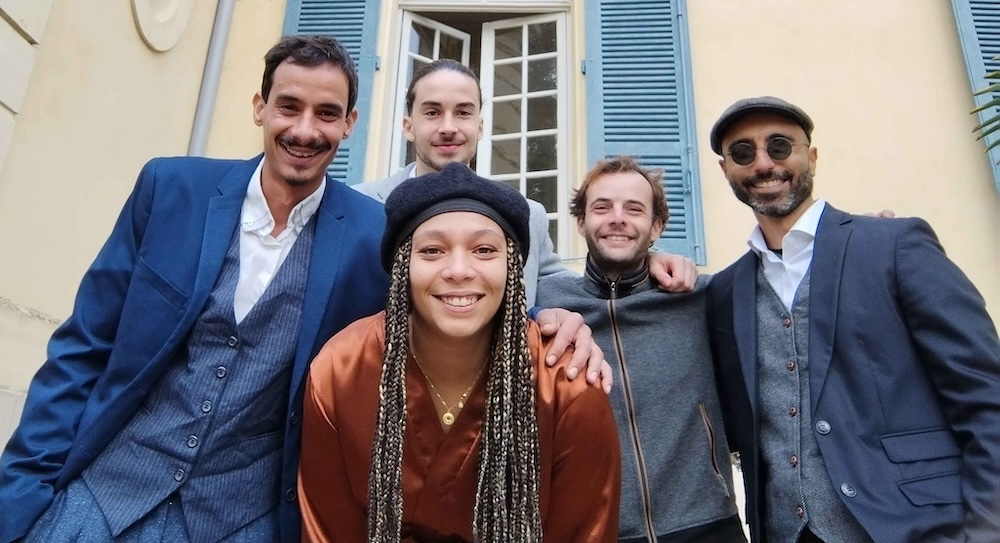
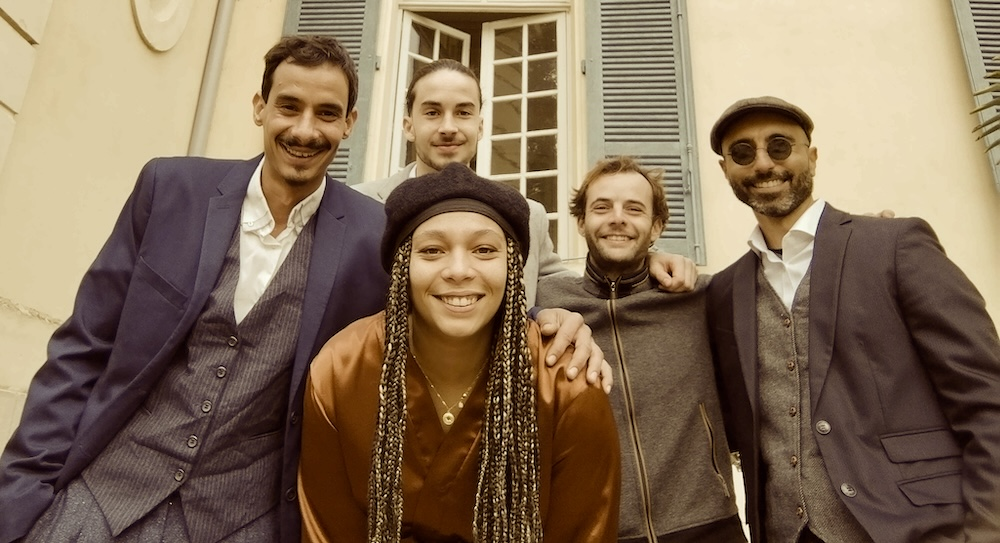
schem

diff --git a/en/index.html b/en/index.html
@@ -9,8 +9,14 @@
     {
       "@context": "https://schema.org",
       "@type": "MusicGroup",
+      "@id": "https://musicbrainz.org/artist/423d6a4e-0c22-48b4-97a7-32003eabf063",
       "name": "Hydromiel",
       "url": "https://hydromiel-musique.fr",
+      "foundingLocation": {
+          "@type": "City",
+          "name": "Lyon"
+      },
+      "foundingDate": "2025",
       "logo": "/pictures/favicon.png",
       "description": "Groupe de musique Hydromiel",
       "genre": "Soul, Funk, Reggae, Groove, Jazz, Neo-Soul, Disco, Pop",
@@ -41,7 +47,64 @@
             "name": "Breathe"
           }
       ],
+      "member": [
+        {
+          "@type": "OrganizationRole",
+          "member": {
+            "@type": "Person",
+            "name": "Mel"
+          },
+          "startDate": "2025",
+          "roleName": ["lead vocals"]
+        },
+        {
+          "@type": "OrganizationRole",
+          "member": {
+            "@type": "Person",
+            "name": "Emilio"
+          },
+          "startDate": "2025",
+          "roleName": ["guitar"]
+        },
+        {
+          "@type": "OrganizationRole",
+          "member": {
+            "@type": "Person",
+            "name": "Elian"
+          },
+          "startDate": "2025",
+          "roleName": ["bass guitar"]
+        },
+        {
+          "@type": "OrganizationRole",
+          "member": {
+            "@type": "Person",
+            "name": "Camille"
+          },
+          "startDate": "2025",
+          "roleName": "keyboard"
+        },
+        {
+          "@type": "OrganizationRole",
+          "member": {
+            "@type": "Person",
+            "name": "Zakk"
+          },
+          "startDate": "2025",
+          "roleName": "drums"
+        },
+        {
+          "@type": "OrganizationRole",
+          "member": {
+            "@type": "Person",
+            "name": "Alex"
+          },
+          "startDate": "2026",
+          "roleName": "saxophone"
+        }
+      ],
       "sameAs": [
+        "https://hydromiel-musique.fr",
         "https://www.facebook.com/people/Hydromielmusique/61581949483668/",
         "https://www.instagram.com/hydromiel.musique",
         "https://hydromiel.bandcamp.com"

diff --git a/index.html b/index.html
@@ -9,8 +9,14 @@
     {
       "@context": "https://schema.org",
       "@type": "MusicGroup",
+      "@id": "https://musicbrainz.org/artist/423d6a4e-0c22-48b4-97a7-32003eabf063",
       "name": "Hydromiel",
       "url": "https://hydromiel-musique.fr",
+      "foundingLocation": {
+          "@type": "City",
+          "name": "Lyon"
+      },
+      "foundingDate": "2025",
       "logo": "/pictures/favicon.png",
       "description": "Groupe de musique Hydromiel",
       "genre": "Soul, Funk, Reggae, Groove, Jazz, Neo-Soul, Disco, Pop",
@@ -41,7 +47,64 @@
             "name": "Breathe"
           }
       ],
+      "member": [
+        {
+          "@type": "OrganizationRole",
+          "member": {
+            "@type": "Person",
+            "name": "Mel"
+          },
+          "startDate": "2025",
+          "roleName": ["lead vocals"]
+        },
+        {
+          "@type": "OrganizationRole",
+          "member": {
+            "@type": "Person",
+            "name": "Emilio"
+          },
+          "startDate": "2025",
+          "roleName": ["guitar"]
+        },
+        {
+          "@type": "OrganizationRole",
+          "member": {
+            "@type": "Person",
+            "name": "Elian"
+          },
+          "startDate": "2025",
+          "roleName": ["bass guitar"]
+        },
+        {
+          "@type": "OrganizationRole",
+          "member": {
+            "@type": "Person",
+            "name": "Camille"
+          },
+          "startDate": "2025",
+          "roleName": "keyboard"
+        },
+        {
+          "@type": "OrganizationRole",
+          "member": {
+            "@type": "Person",
+            "name": "Zakk"
+          },
+          "startDate": "2025",
+          "roleName": "drums"
+        },
+        {
+          "@type": "OrganizationRole",
+          "member": {
+            "@type": "Person",
+            "name": "Alex"
+          },
+          "startDate": "2026",
+          "roleName": "saxophone"
+        }
+      ],
       "sameAs": [
+        "https://hydromiel-musique.fr",
         "https://www.facebook.com/people/Hydromielmusique/61581949483668/",
         "https://www.instagram.com/hydromiel.musique",
         "https://hydromiel.bandcamp.com"